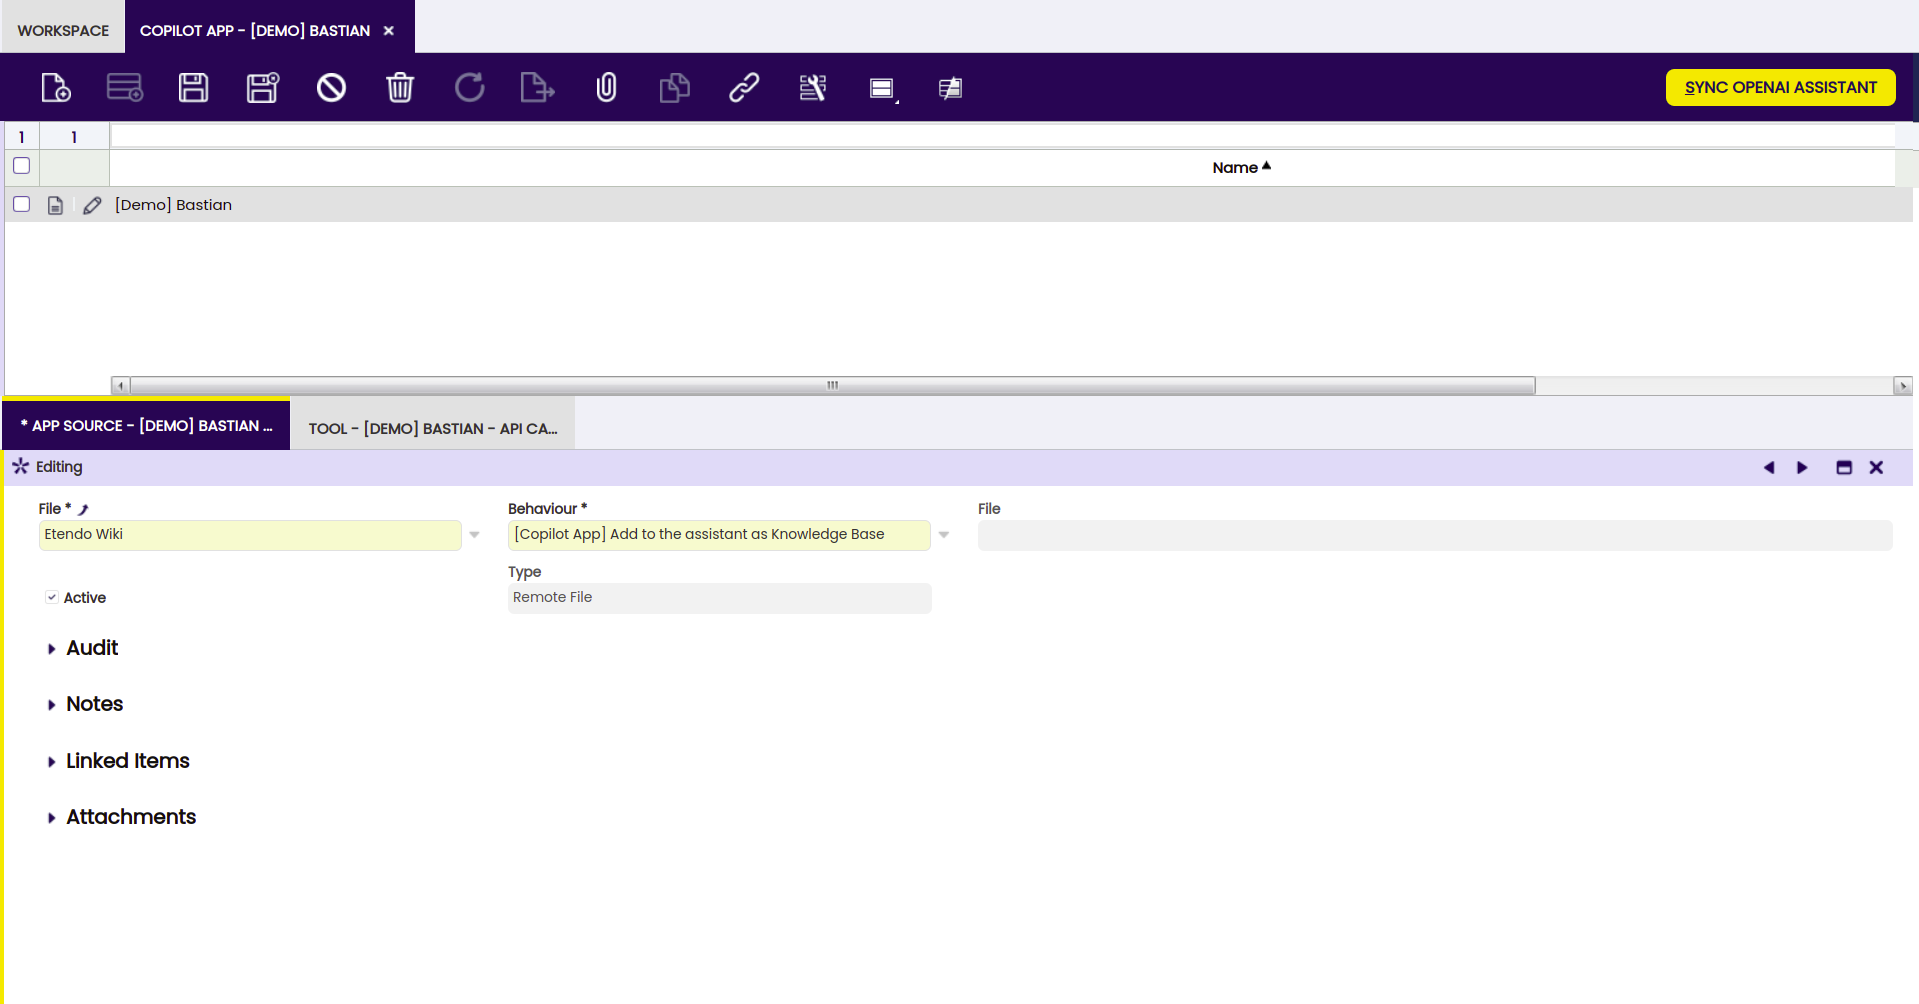
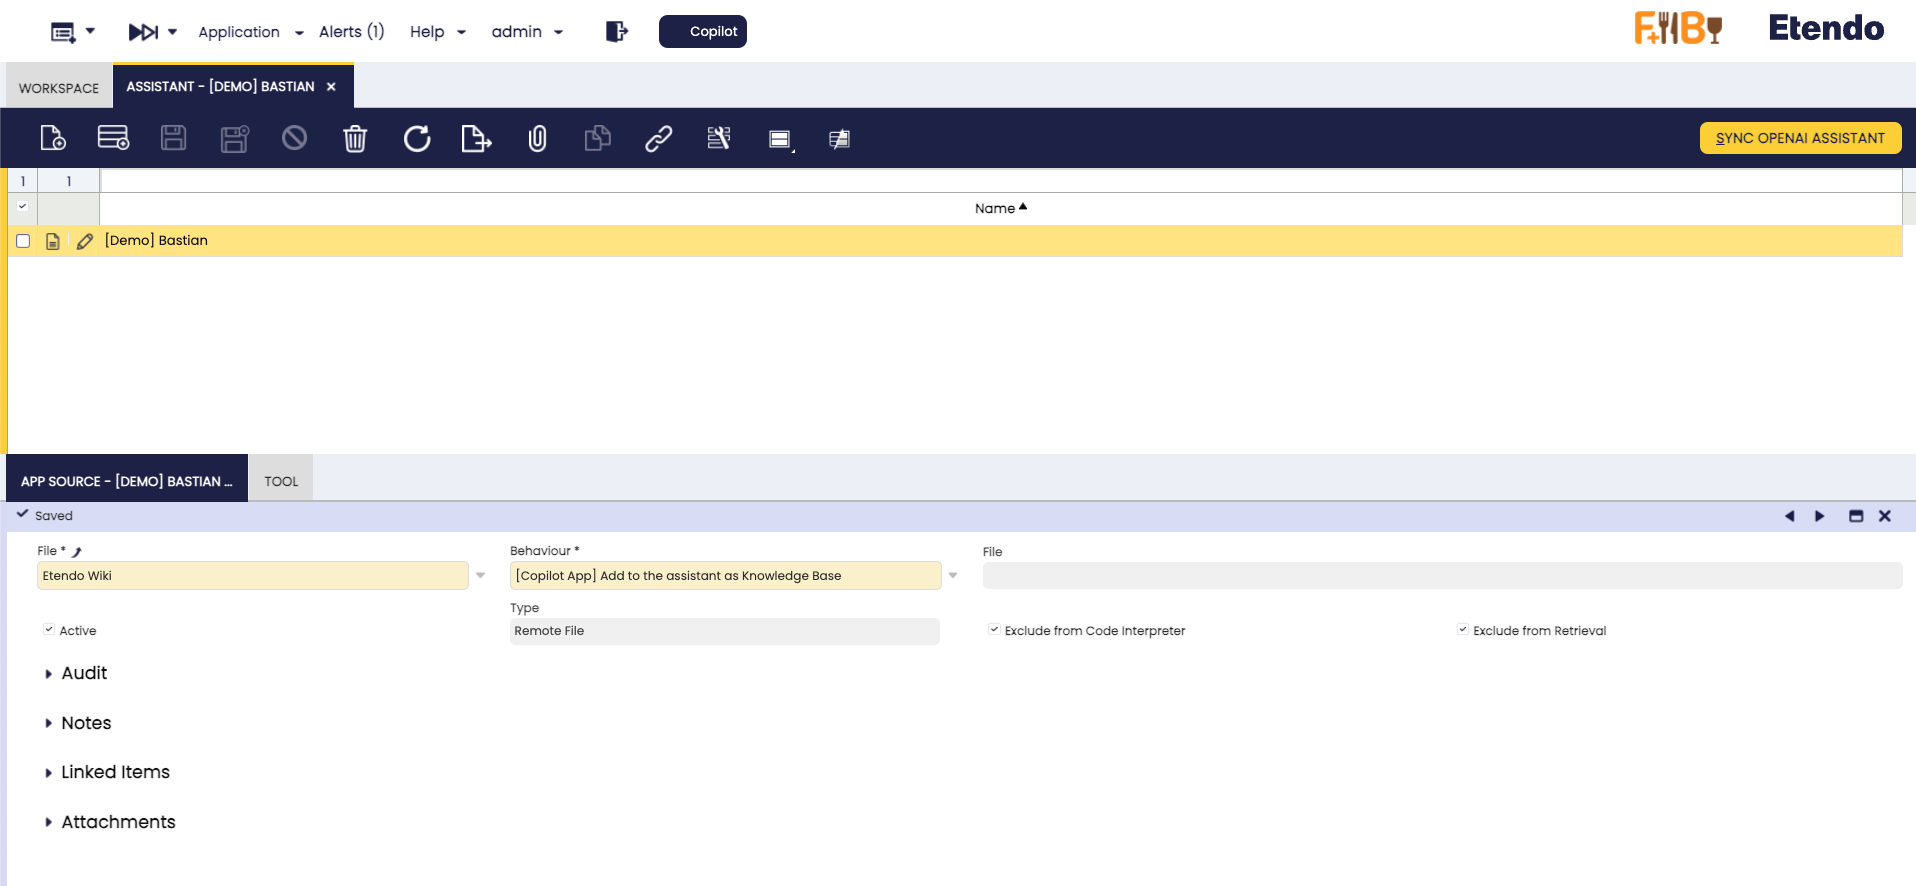
Hotfix EE-1018: Add exclusion checks for code interpreter & retrieval

diff --git a/docs/user-guide/etendo-copilot/setup.md b/docs/user-guide/etendo-copilot/setup.md
@@ -68,6 +68,11 @@ This process is only available when the application type is **Open AI Assistant*
 
 In this tab, you can define the files that will be used by the assistant as knowledge base, in prompts or questions. 
 
+!!!warning "File Limitation for Code Interpreter"
+    If an assistant has the Code Interpreter check enabled, a maximum of 20 files is supported. Although it is possible to include more files in the knowledge base, exceeding this limit means that some files must be excluded. To do this, use the **Exclude from Code Interpreter** option on the files that you do not want to be processed by the Code Interpreter.
+
+
+
 ![](../../assets/user-guide/etendo-copilot/setup/app-source-tab.png)
 
 !!!info
@@ -82,6 +87,8 @@ Fields to note:
     - Add content to each question: In this case, the same restrictions from the previous option apply. 
 - **Type**: read-only field showing the type of file selected in the [Copilot File window](#copilot-file-window).
 - **Active**: checkbox to activate the app source.
+- **Exclude from Code Interpreter**: Checkbox to exclude files from being processed by the Code Interpreter during synchronization. This checkbox is only editable if the assistant has the Code Interpreter option enabled.
+- **Exclude from Retrieval**: Checkbox to exclude files from being considered in the Retrieval process during synchronization.This checkbox is only editable if the assistant has the Retrieval option enabled.
 
 ### Tool Tab
 
